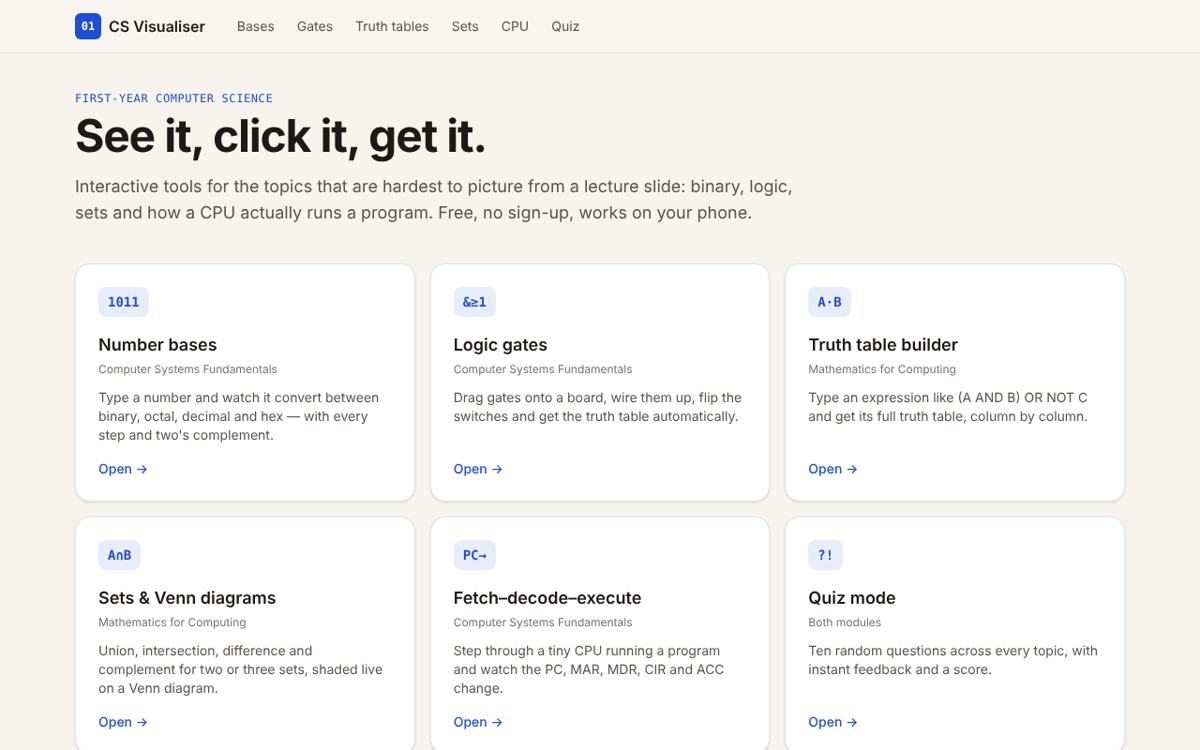
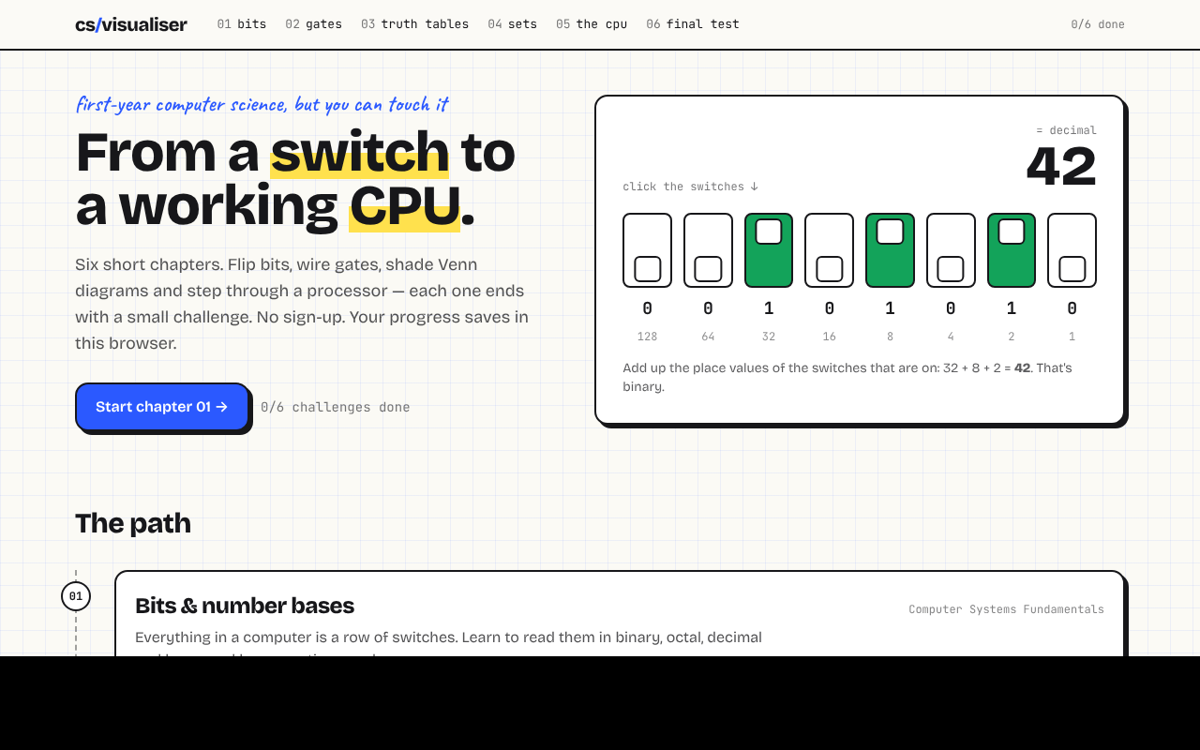
Update CS Visualiser screenshot and description

diff --git a/src/data/projects.ts b/src/data/projects.ts
@@ -16,7 +16,7 @@ export const projects: Project[] = [
     title: "CS Visualiser",
     year: "2026",
     description:
-      "Revision tools for my first-year modules. You can wire up logic gates and watch the truth table fill itself in, convert between number bases with the working shown, shade Venn diagrams, and step through a tiny CPU one register at a time.",
+      "A six-chapter path from a single switch to a working CPU, built for my first-year modules. Flip bits, wire logic gates, shade Venn diagrams and step through a tiny processor — each chapter ends with a challenge that checks your answer, and progress is saved as you go.",
     stack: "react · typescript · vite · tailwind",
     github: "https://github.com/macroer16/cs-visualiser",
     live: "https://cs-visualiser.vercel.app",
